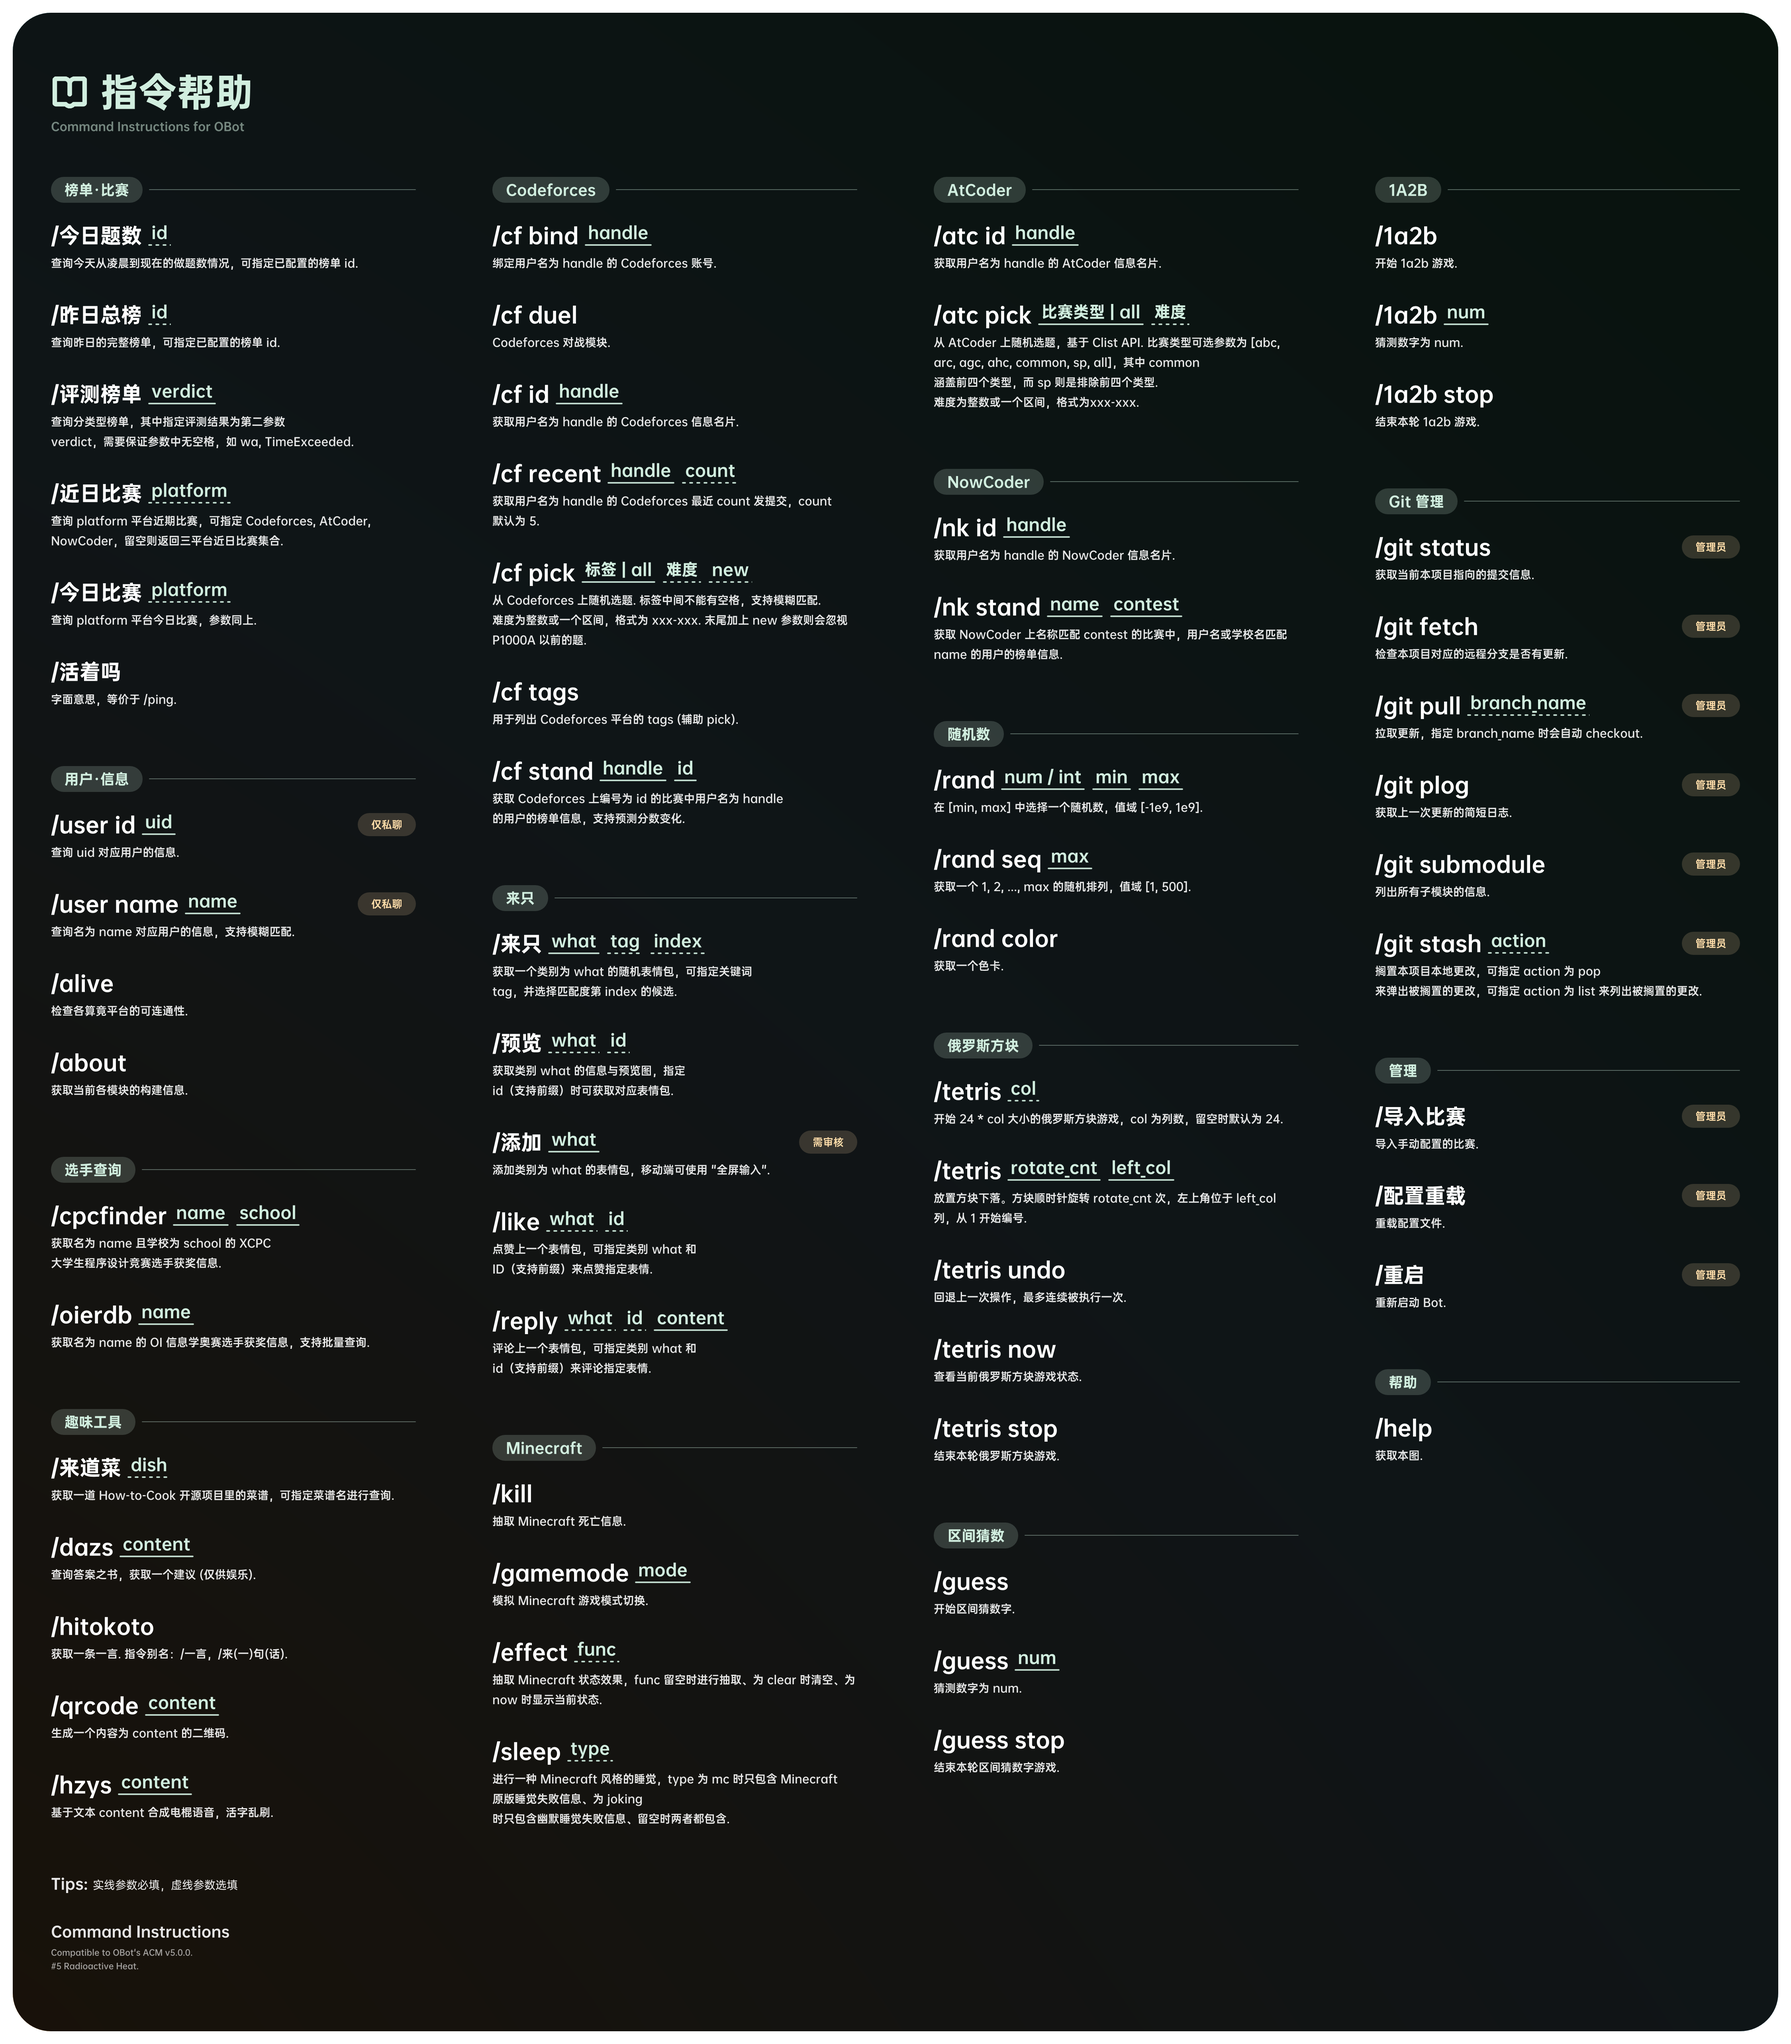
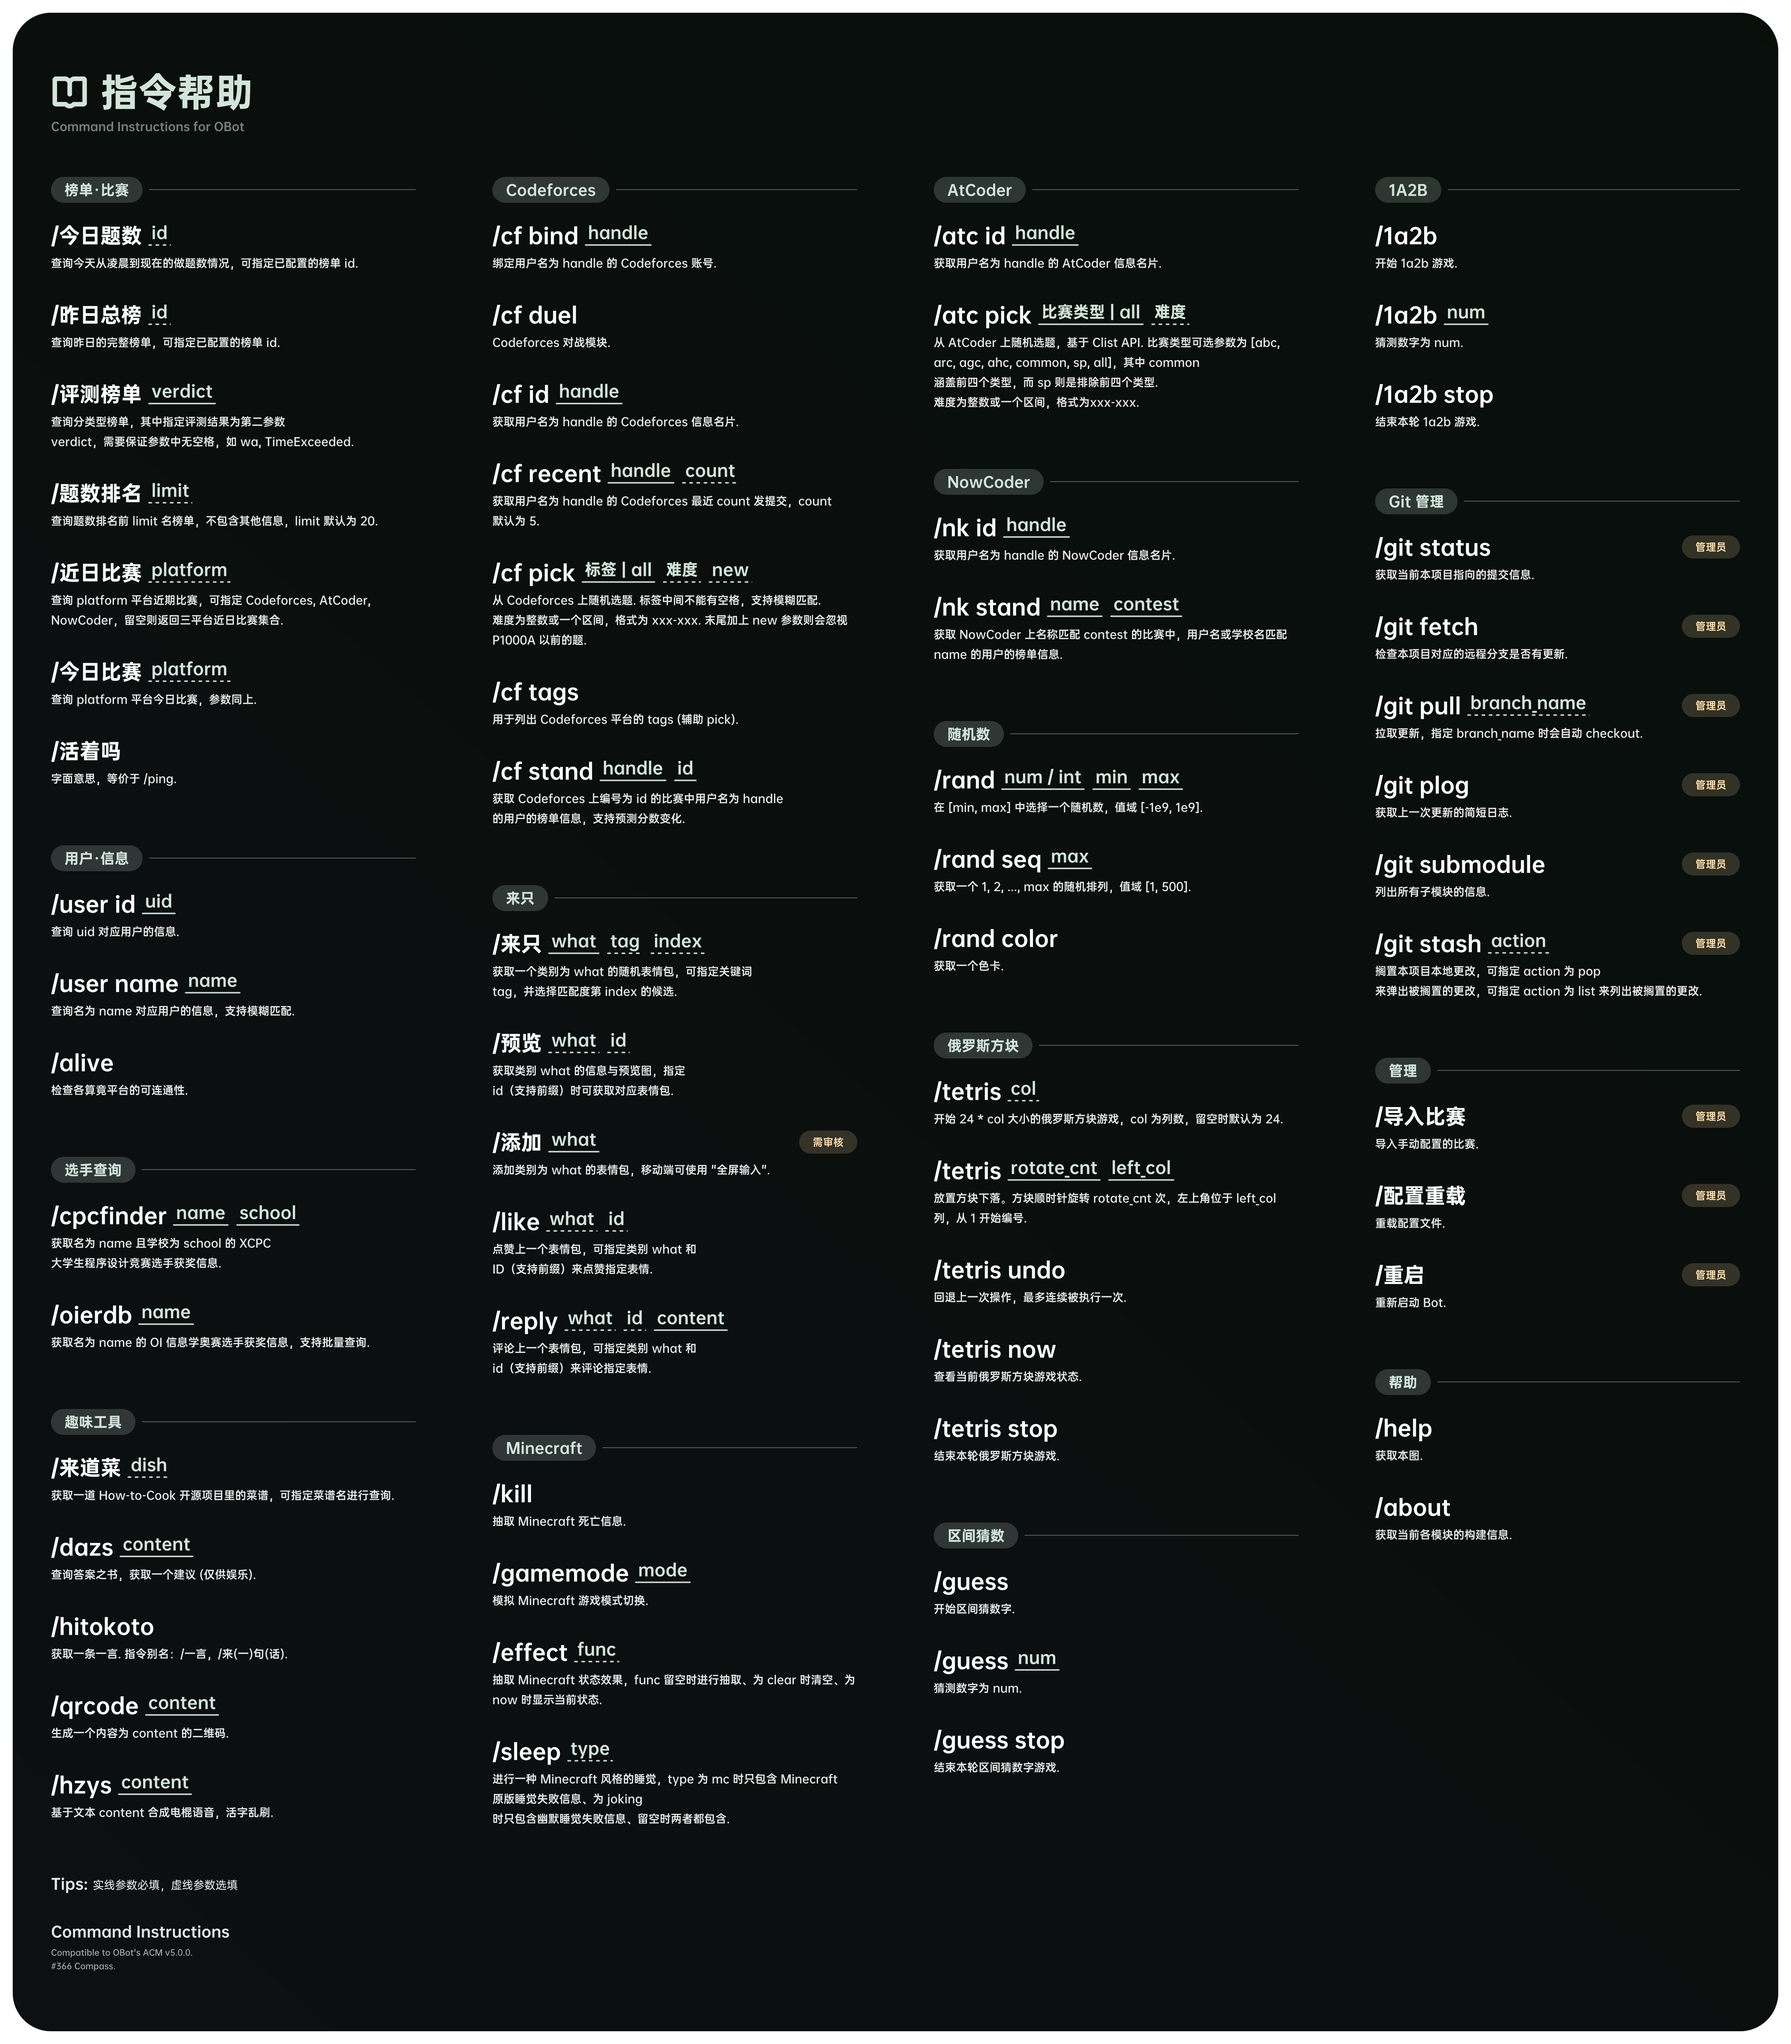
feat(Peeper): 支持 /题数排名 <limit>

diff --git a/src/core/constants.py b/src/core/constants.py
@@ -150,6 +150,7 @@ class Constants:
             Help("/昨日总榜 (id)", "查询昨日的完整榜单，可指定已配置的榜单 id."),
             Help("/评测榜单 [verdict]",
                  "查询分类型榜单，其中指定评测结果为第二参数 verdict，需要保证参数中无空格，如 wa, TimeExceeded."),
+            Help("/题数排名 (limit)", "查询题数排名前 limit 名榜单，不包含其他信息，limit 默认为 20."),
             Help("/近日比赛 (platform)",
                  "查询 platform 平台近期比赛，可指定 Codeforces, AtCoder, NowCoder，留空则返回三平台近日比赛集合."),
             Help("/今日比赛 (platform)", "查询 platform 平台今日比赛，参数同上."),
@@ -158,8 +159,7 @@ class Constants:
         'sub': [
             Help("/user id [uid]", "查询 uid 对应用户的信息."),
             Help("/user name [name]", "查询名为 name 对应用户的信息，支持模糊匹配."),
-            Help("/alive", "检查各算竟平台的可连通性."),
-            Help("/about", "获取当前各模块的构建信息.")
+            Help("/alive", "检查各算竟平台的可连通性.")
         ],
         'contestant': [
             Help("/cpcfinder [name] [school]", "获取名为 name 且学校为 school 的 XCPC 大学生程序设计竞赛选手获奖信息."),
@@ -252,7 +252,8 @@ class Constants:
             Help("/重启", "重新启动 Bot，需要管理员权限.")
         ],
         'help': [
-            Help("/help", "获取本图.")
+            Help("/help", "获取本图."),
+            Help("/about", "获取当前各模块的构建信息.")
         ],
     }
 

diff --git a/src/module/cp/peeper.py b/src/module/cp/peeper.py
@@ -340,6 +340,29 @@ def send_history_board(message: RobotMessage):
     message.reply(f"{date_string} 卷王天梯榜", png2jpg(f"{cached_prefix}.png"))
 
 
+@command(tokens=['题数排名', '题数排行', '训练榜单'])
+def send_rank_board(message: RobotMessage):
+    rank_limit = "20" if len(message.tokens) < 2 else message.tokens[1]
+    if not check_is_int(rank_limit) or not (5 <= int(rank_limit) <= 100):
+        message.reply("参数错误，请输入 [5, 100] 内的整数", modal_words=False)
+        return
+
+    rank_limit = int(rank_limit)
+    conf_id = message.tokens[2] if len(message.tokens) >= 3 else None
+
+    if not message.is_active():
+        message.reply(f"正在查询题数排名前 {rank_limit} 名，请稍等")
+
+    cached_prefix = get_cached_prefix('Peeper-Board-Generator')
+    run = _call_lib_method(message,
+                           f'--rank {rank_limit} --output "{cached_prefix}.png"',
+                           conf_id=conf_id)
+    if run is None:
+        return
+
+    message.reply(f"题数排名前 {rank_limit} 名", png2jpg(f"{cached_prefix}.png"))
+
+
 def get_version_info() -> str:
     cached_prefix = get_cached_prefix('Peeper-Board-Generator')
     run = _call_lib_method(None,  # 留空选择默认
